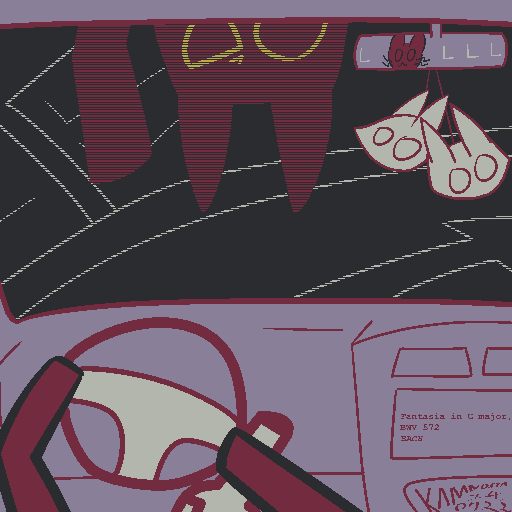
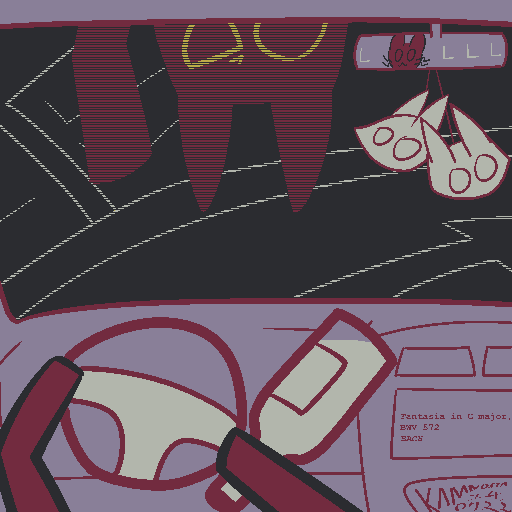
another drunk uncentgered img change

diff --git a/_posts/24-07-22-wip-s-of-drunk-and-uncentered.md b/_posts/24-07-22-wip-s-of-drunk-and-uncentered.md
@@ -54,6 +54,11 @@ The truck (also used above) is from [Sketchfab, "Japanese Dump Truck", by *Pavel
 
 ...Cropped...
 
+## 240722_dumptruck_12.png
+![/imgs_sketches/240722_dumptruck_12.png](/imgs_sketches/240722_dumptruck_12.png)
+
+...Effects...
+
 ## [240722_drunk_and_uncentered.png](/illusts/240722-drunk-and-uncentered)
 ![/imgs/240722_drunk_and_uncentered.png](/imgs/240722_drunk_and_uncentered.png)
 
